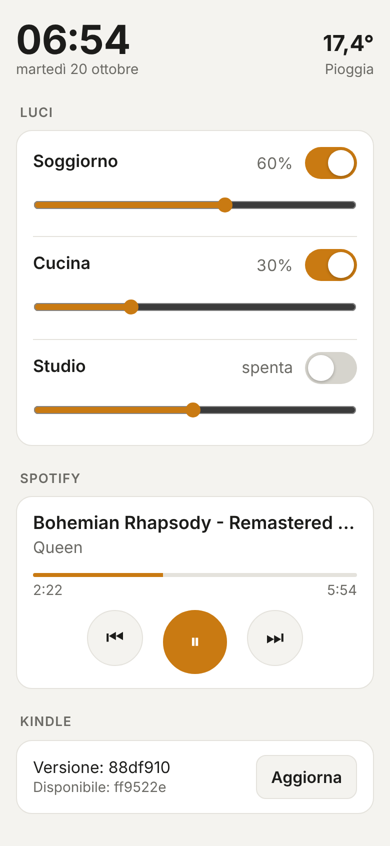
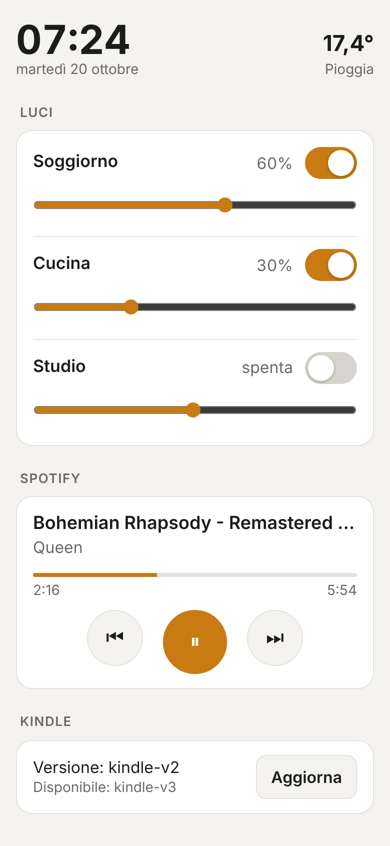
OTA del Kindle solo sui tag di rilascio kindle-vN
- Il Kindle segue il tag kindle-vN più alto (confronto numerico) invece
  dell'ultimo commit di main: README, sketch e strumenti non lo riavviano
  più, e non torna mai a un numero più basso.
- Arduino: /ota/version cerca i tag kindle-v*, /ota/file accetta solo
  tag di rilascio.
- tools/release_kindle.sh: controlla kindle/ come farebbe il Kindle e
  pubblica il tag successivo solo se kindle/ è cambiata.
- lib.sh: http_get chiude il timer del timeout a fine download, così non
  restano processi sleep e "dashboard.sh update" via SSH termina subito.

Claude-Session: https://claude.ai/code/session_017t1mwSL5SLEcJBhzag4ocz

Changed region(s): [[0.2769, 0.8913, 0.4615, 0.9527], [0.0923, 0.0307, 0.2769, 0.0615], [0.1231, 0.6761, 0.1538, 0.7069]]

diff --git a/arduino/kindle_gateway/webapp.h b/arduino/kindle_gateway/webapp.h
@@ -84,7 +84,6 @@ const $ = id => document.getElementById(id);
 const touched = {};  // luce -> ultima modifica locale, per non farsi sovrascrivere dal polling
 let rows = [];
 
-const short = sha => sha ? sha.slice(0, 7) : "";
 const mmss = s => Math.floor(s / 60) + ":" + String(s % 60).padStart(2, "0");
 
 async function get(path) {
@@ -150,9 +149,9 @@ function render(s) {
   document.querySelectorAll(".controls button").forEach(b => b.disabled = !sp.ok);
 
   const ota = s.ota;
-  $("kver").textContent = "Versione: " + (short(ota.kindle) || "sconosciuta");
+  $("kver").textContent = "Versione: " + (ota.kindle || "sconosciuta");
   $("klatest").textContent = !ota.configured ? "Aggiornamenti non configurati sull'Arduino"
-    : !ota.latest ? "" : ota.latest === ota.kindle ? "Aggiornato" : "Disponibile: " + short(ota.latest);
+    : !ota.latest ? "" : ota.latest === ota.kindle ? "Aggiornato" : "Disponibile: " + ota.latest;
   $("ota").disabled = !ota.configured;
 }
 

diff --git a/tools/webapp_dev.py b/tools/webapp_dev.py
@@ -27,8 +27,7 @@ state = {
     "sp": {"ok": True, "active": True, "playing": True, "track": "Bohemian Rhapsody - Remastered 2011",
            "artist": "Queen", "progress": 134, "duration": 354},
     "started": time.time(),
-    "ota": {"configured": True, "kindle": "88df910c0ffee000000000000000000000000000",
-            "latest": "ff9522edcb7ef9ff61ecda4cf4bbd11b04e9e0c5"},
+    "ota": {"configured": True, "kindle": "kindle-v2", "latest": "kindle-v3"},
 }
 
 

diff --git a/README.md b/README.md
@@ -25,6 +25,7 @@ Spotify, Open-Meteo ◄─HTTPS── UNO R4 WiFi ──► Arduino Cloud (notif
 | `kindle/` | Script del pannello, da copiare in `/mnt/us/dashboard/` sul Kindle |
 | `tools/get_spotify_token.py` | Ottiene il refresh token di Spotify (una volta, sul PC) |
 | `tools/make_qr.py` | Genera i QR del WiFi ospiti e della webapp |
+| `tools/release_kindle.sh` | Pubblica un aggiornamento OTA per il Kindle (tag `kindle-vN`) |
 | `tools/preview.py` | Anteprima della schermata del Kindle sul PC |
 | `tools/webapp_dev.py` | Anteprima della webapp nel browser, con API finte |
 
@@ -136,13 +137,35 @@ volta, così il device non risulta offline senza motivo.
 
 ## Aggiornamenti OTA del Kindle
 
-Il Kindle si aggiorna da solo dal ramo `main` di questo repository. Il Kindle
-non parla HTTPS, quindi i file passano dall'Arduino, che li legge da GitHub col
-token:
+Il Kindle si aggiorna da solo, ma solo quando pubblichi un **rilascio**, cioè un
+tag `kindle-vN`. Un push su `main` da solo non lo aggiorna: puoi modificare
+README, sketch o anche `kindle/` senza che il Kindle si riavvii, e decidere tu
+quando una versione è pronta. Il Kindle non parla HTTPS, quindi i file passano
+dall'Arduino, che li legge da GitHub col token:
 
 ```
 Kindle ──HTTP /ota/version, /ota/file──► UNO R4 ──HTTPS + token──► GitHub
 ```
+
+**Pubblicare un aggiornamento.** Fai push su `main`, poi esegui:
+
+```sh
+tools/release_kindle.sh
+```
+
+Lo script:
+1. controlla che `kindle/` non abbia modifiche non committate e che il commit
+   sia già su GitHub;
+2. trova l'ultimo `kindle-vN`. Se da allora `kindle/` non è cambiata, non fa
+   nulla;
+3. fa gli stessi controlli del Kindle, cioè riga finale `# ota:end` e `sh -n`
+   sugli script;
+4. mostra le modifiche, chiede conferma e pubblica `kindle-vN+1`.
+
+Il Kindle passa sempre al tag col numero più alto, confrontato come numero:
+`kindle-v10` viene dopo `kindle-v9`. Non torna mai a un numero più basso,
+nemmeno se cancelli un tag. Per annullare un rilascio sbagliato, pubblica una
+versione corretta con un numero più alto.
 
 **Token.** Su GitHub vai in *Settings → Developer settings → Fine-grained
 tokens* e crea un token con:
@@ -150,7 +173,7 @@ tokens* e crea un token con:
 - permesso *Contents: Read-only*.
 
 Mettilo in `SECRET_GITHUB_TOKEN` in `arduino_secrets.h`. L'Arduino inoltra solo
-i file della cartella `kindle/` a un commit preciso, non il resto del
+i file della cartella `kindle/` ai tag `kindle-vN`, non il resto del
 repository.
 
 **Quando controlla.** Due minuti dopo l'avvio, poi ogni 24 ore
@@ -180,7 +203,7 @@ mettilo anche in `ota-files`.
 2. La versione in uso viene salvata in `.ota_prev/` prima di essere sostituita.
 3. Dopo il riavvio il pannello deve dimostrare di funzionare entro 45 secondi
    (`OTA_HEALTH_SECONDS`). Se non ci riesce, si torna alla versione precedente.
-   Il commit difettoso viene scritto in `.ota_bad` e non viene più riprovato.
+   Il rilascio difettoso viene scritto in `.ota_bad` e non viene più riprovato.
 
 Il controllo e il ripristino li fa il processo della versione vecchia, quindi
 funzionano anche se la versione nuova è difettosa. Resta un caso scoperto: una
